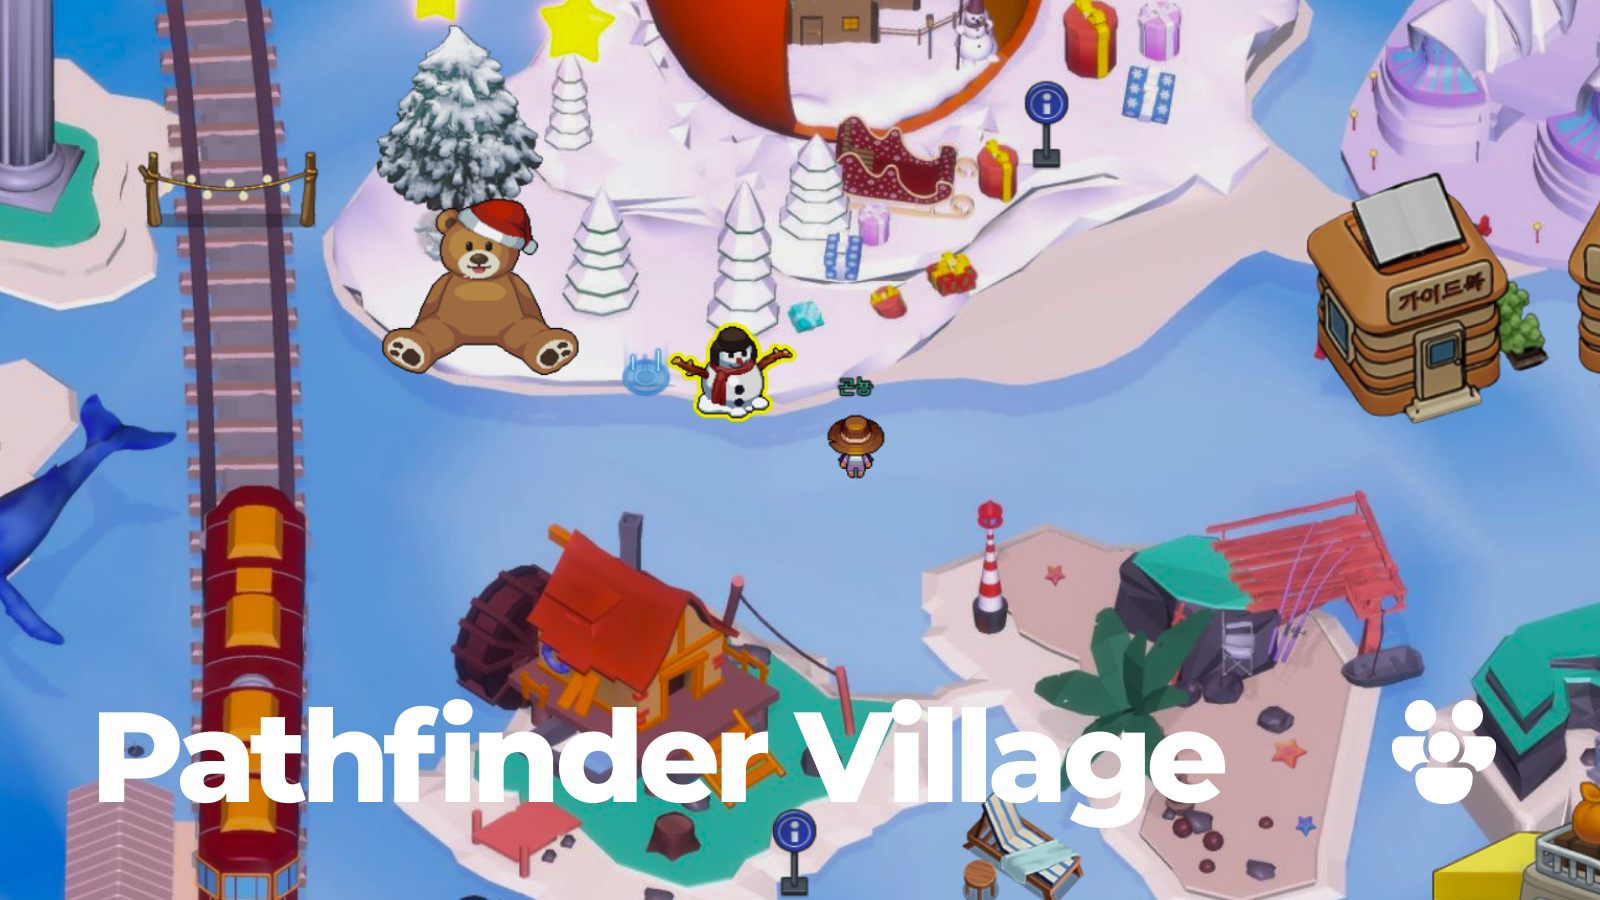
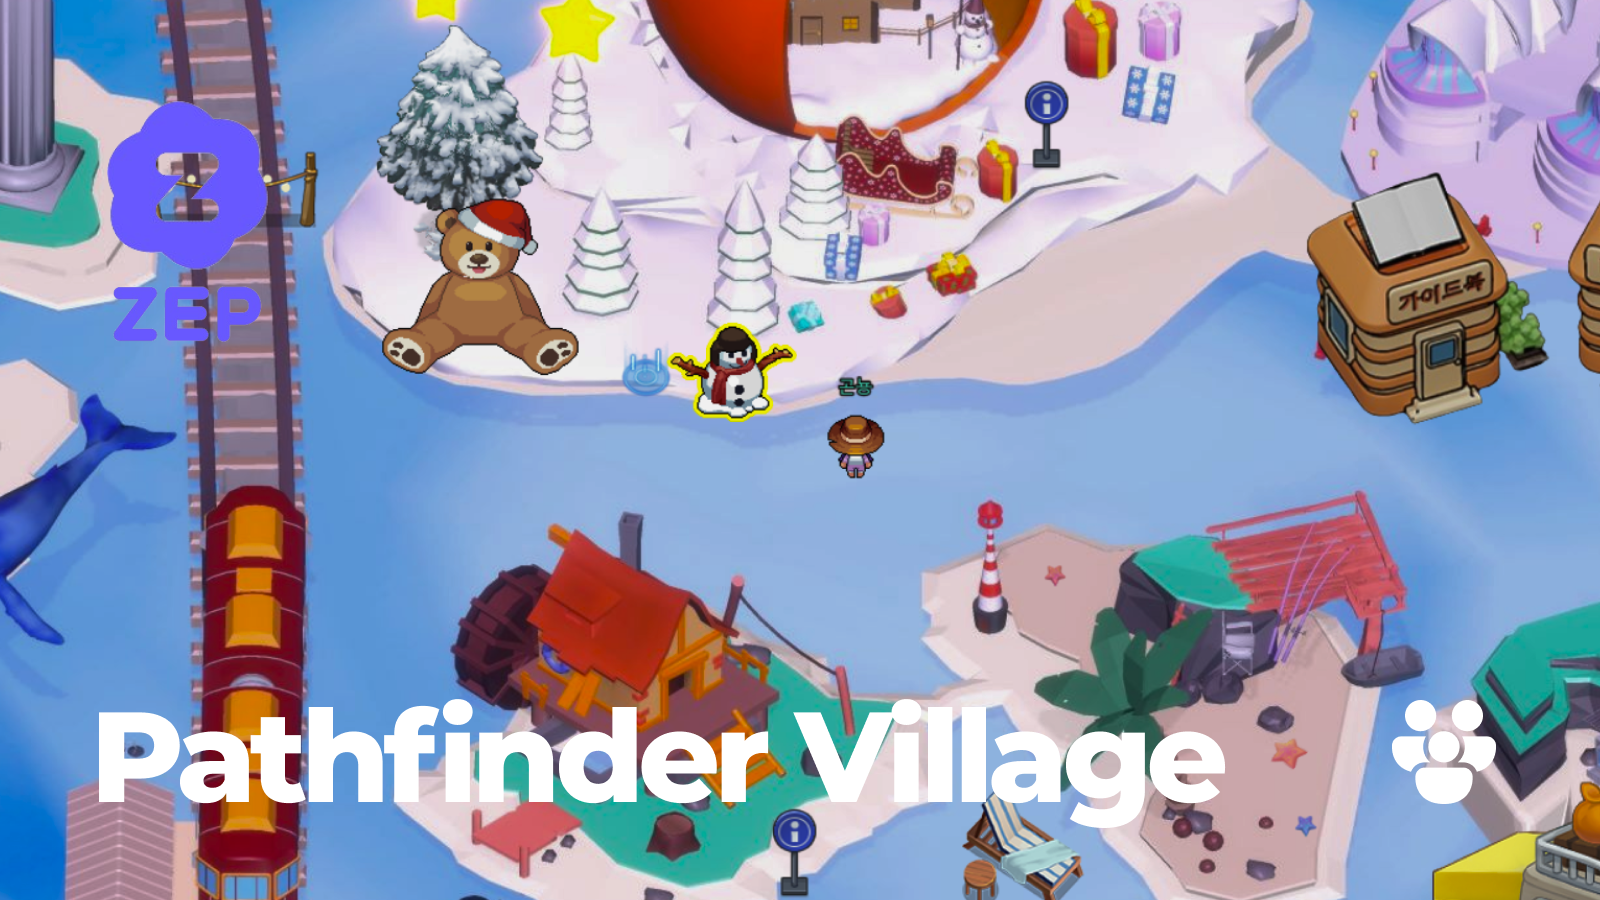
썸네일 및 데이터 수정

Changed region(s): [[0.0625, 0.0933, 0.1875, 0.4044]]

diff --git a/src/data/unity/data.ts b/src/data/unity/data.ts
@@ -347,7 +347,7 @@ export const thumbnailCommunity = [
       '/images/unity/community/village_image_5.png',
     ],
     title: '패스파인더 빌리지',
-    sub_title: ' Zep 메타버스 플랫폼으로 만들어진 특별한 마을',
+    sub_title: '"랩키드_패스파인더GPT" ZEP 커뮤니티',
     description:
       '꿈의 마을로 초대합니다!\n\n이곳은 Zep 메타버스 플랫폼으로 만들어진 특별한 마을입니다.\n\n현실을 뛰어넘는 새로운 경험을 만들어내는 메타버스 세계의 낙원, 꿈의 마을은 여러분에게 무한한 가능성과 만남의 기회를 제공할 것입니다.\n\n이곳에서 여러분은 메타버스에서 느끼게 될 모든 감동과 경험을 기록하고 공유할 수 있습니다.\n\n마치 주인공처럼 모험을 떠나며 새로운 친구들과의 소통을 즐겨보세요.',
     tag: ['비슷한 관심사', '집단상담', '이해와공감', '상호작용'],
@@ -363,7 +363,7 @@ export const thumbnailCommunity = [
       '/images/unity/community/lsland_image_5.png',
     ],
     title: '패스파인더 아일랜드',
-    sub_title: ' Spatial.io 메타버스 플랫폼으로 만들어진 특별한 섬',
+    sub_title: '스페이셜IO "랩키드_패스파인더GPT" 아일랜드 메타버스 캠퍼스',
     description:
       '꿈의 섬으로 초대합니다! 이곳은 Spatial.io 메타버스 플랫폼으로 만들어진 특별한 섬입니다.\n\n새로운 사람들과 소통하고 언제 어디서나 손쉽게 만날 수 있는 메타버스 세계의 오아시스, 꿈의 섬은 여러분에게 무궁무진한 경험과 새로운 인연을 제공할 것입니다.\n\n꿈의 섬은 마치 실제 세계에 들어와있는 거처럼 여러분이 메타버스에서 경험하는 모든 순간을 기록하고 나눌 수 있습니다.\n\n마치 주인공처럼 모험을 떠나며 새로운 친구들과 소통하는 즐거움을 만끽해 보세요.',
     tag: ['비슷한관심사', '집단상담', '이해와공감', '상호작용'],
